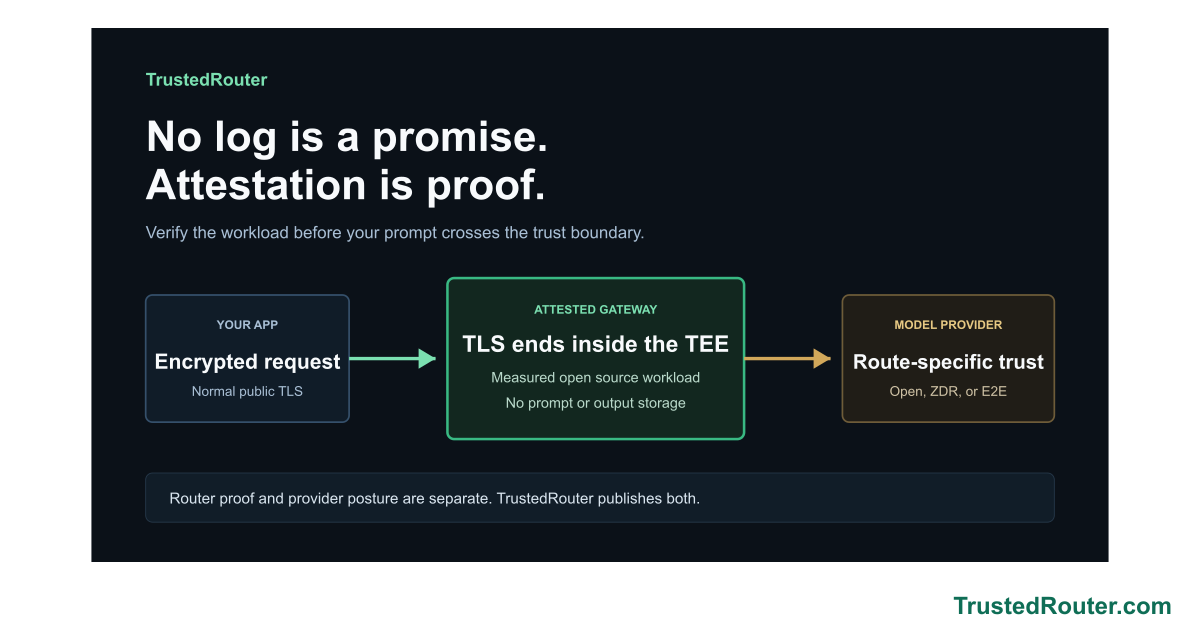
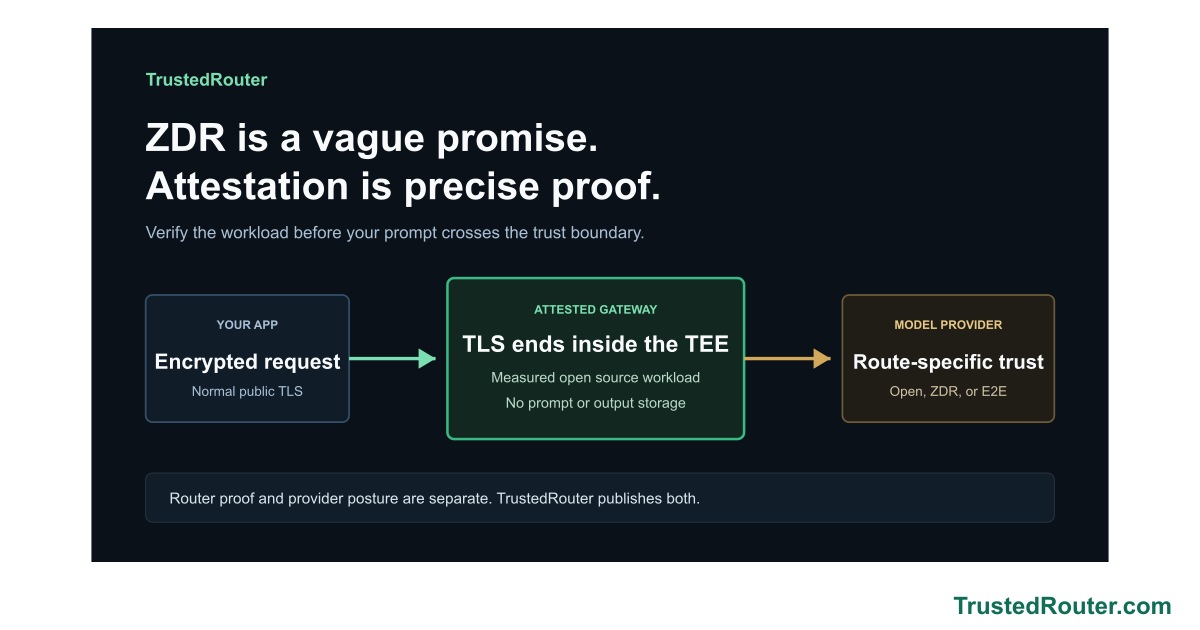
Rename attestation blog post

Changed region(s): [[0.1233, 0.181, 0.555, 0.3317]]

diff --git a/src/trusted_router/content/blog.py b/src/trusted_router/content/blog.py
@@ -101,7 +101,7 @@ BLOG_POSTS: tuple[BlogPost, ...] = (
     ),
     BlogPost(
         slug="no-log-is-a-promise-attestation-is-proof",
-        title="No Log Is a Promise. Attestation Is Proof.",
+        title="ZDR is a vague promise. Attestation is precise proof",
         description=(
             "Most AI routers ask you to trust a data policy. TrustedRouter puts public TLS "
             "and prompt handling inside a measured open source workload you can verify."
@@ -117,8 +117,8 @@ BLOG_POSTS: tuple[BlogPost, ...] = (
 <svg xmlns="http://www.w3.org/2000/svg" viewBox="0 0 1200 630" width="100%" style="height:auto" font-family="Inter,Arial,sans-serif" role="img" aria-label="An encrypted request reaches an attested TrustedRouter gateway before a route-specific model provider">
 <rect width="1200" height="630" fill="#0b1118"/>
 <text x="64" y="68" font-size="21" font-weight="700" fill="#7be0b1">TrustedRouter</text>
-<text x="64" y="145" font-size="50" font-weight="750" fill="#f8fafc">No log is a promise.</text>
-<text x="64" y="202" font-size="50" font-weight="750" fill="#f8fafc">Attestation is proof.</text>
+<text x="64" y="145" font-size="46" font-weight="750" fill="#f8fafc">ZDR is a vague promise.</text>
+<text x="64" y="202" font-size="46" font-weight="750" fill="#f8fafc">Attestation is precise proof.</text>
 <text x="64" y="248" font-size="20" fill="#a9bfd5">Verify the workload before your prompt crosses the trust boundary.</text>
 
 <rect x="64" y="315" width="240" height="150" rx="8" fill="#101c28" stroke="#35506b" stroke-width="2"/>

diff --git a/tests/test_public_revenue_pages.py b/tests/test_public_revenue_pages.py
@@ -25,7 +25,7 @@ def test_revenue_pages_are_public(client: TestClient) -> None:
             "They Are Still Training on Your Data"
         ),
         "/blog/no-log-is-a-promise-attestation-is-proof": (
-            "No Log Is a Promise. Attestation Is Proof."
+            "ZDR is a vague promise. Attestation is precise proof"
         ),
         "/blog/fusion-evals-open-source": "New SOTA: TrustedRouter Synth beats Fable and Frontier",
         "/blog/sign-in-with-trustedrouter": "Sign in with TrustedRouter",
